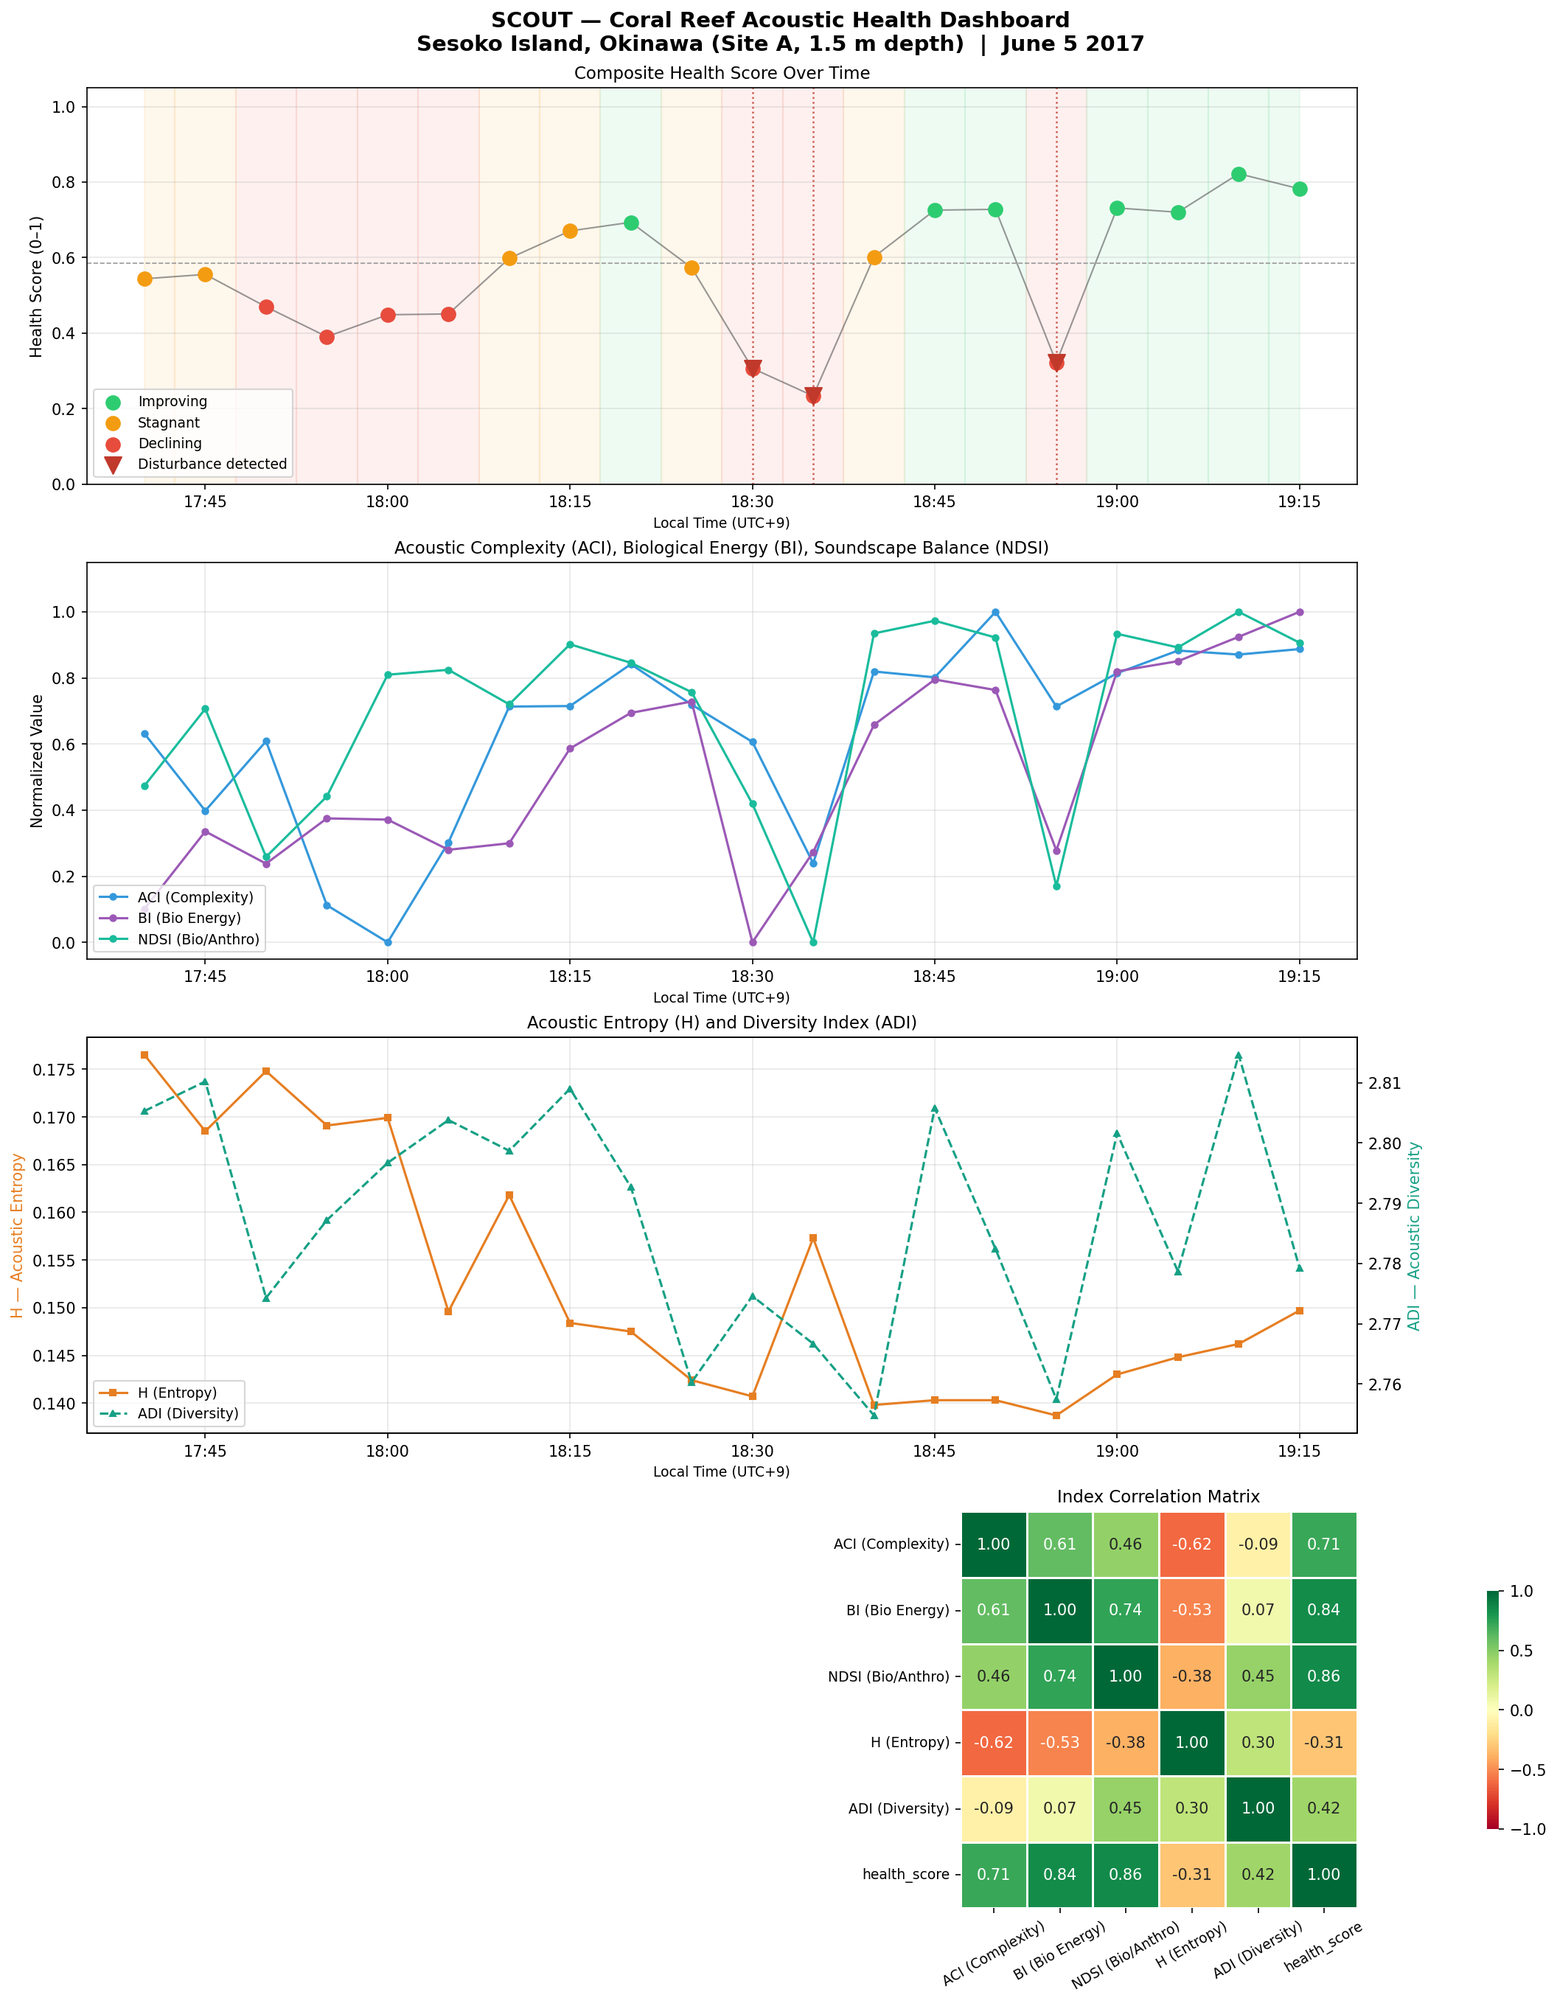
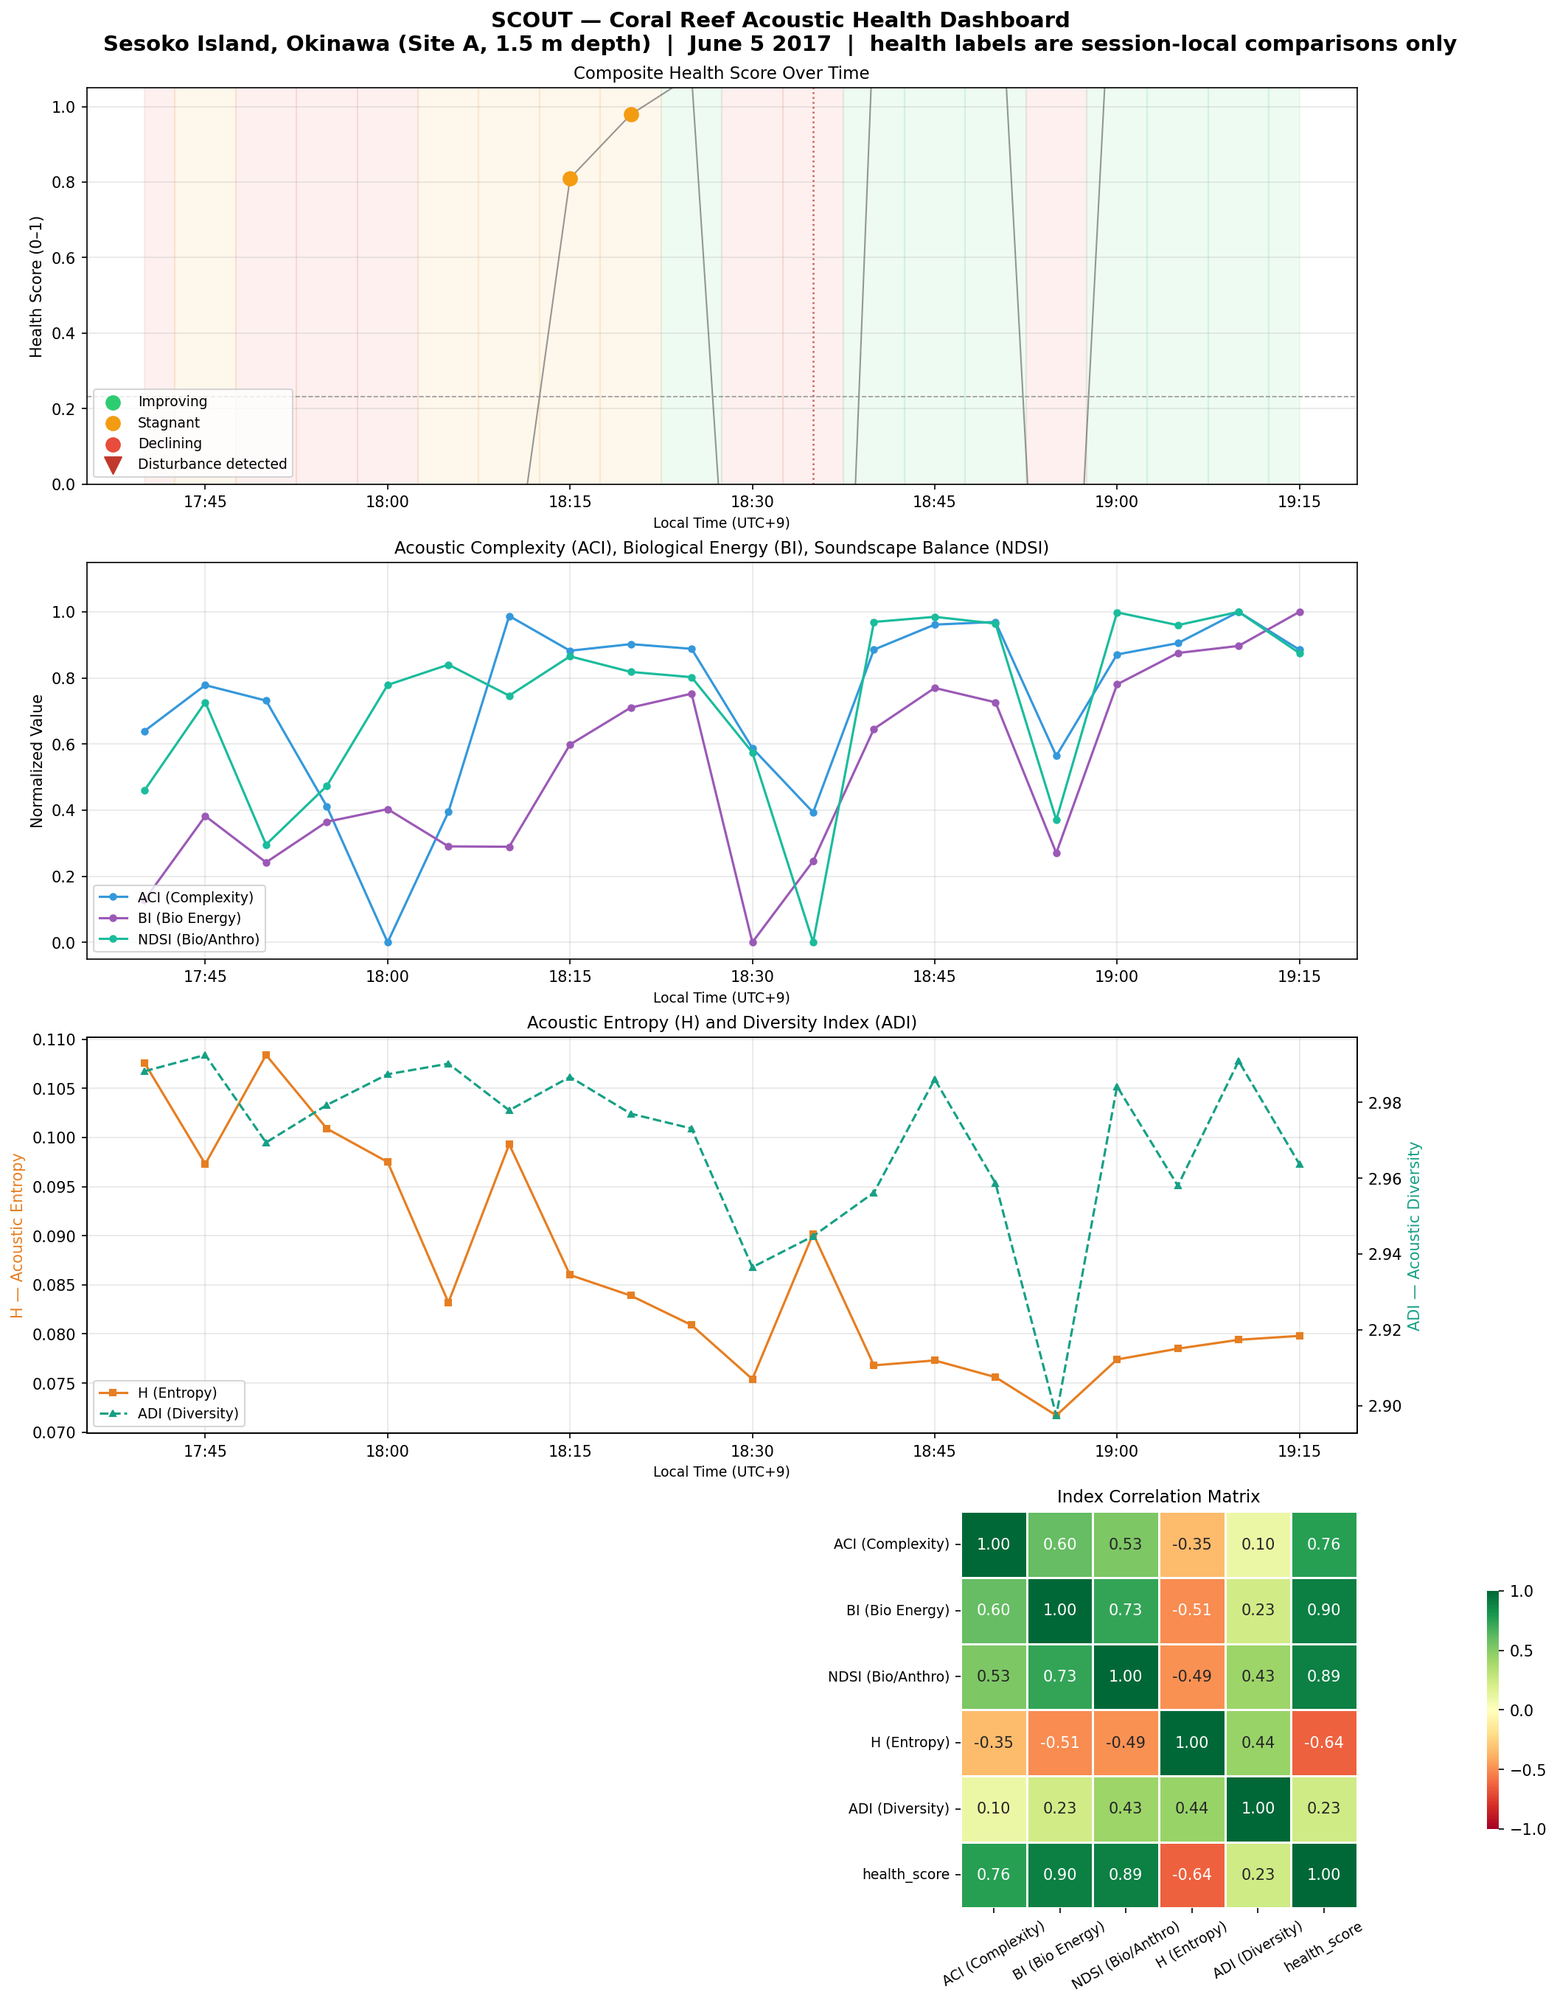
fix(analytics): really resample shore audio to 22.05 kHz and regenerate results (SCO-235)
maad.sound.load ignored the sr and mono arguments load_audio passed, so every
index ran at the file's 44.1 kHz while the code and docs said 22.05 kHz.
load_audio now resamples (polyphase), and every file in data/processed/ is
regenerated deliberately: absolute values move (BI about x4, bins are half
as wide) but the longitudinal verdict is unchanged (STAGNANT, tau -0.143,
p 0.71). The methodology doc records before/after; the acoustic-summary
validation is re-run against the fixed pipeline (rho 0.90 / 0.43). The scan
is now recursive and parse_timestamp reads the buoy's YYYYMMDD/HHMMSSZ.WAV,
so a recovered card's /AUDIO/ folder goes straight through the pipeline.

diff --git a/analytics/utils/acoustic_indices.py b/analytics/utils/acoustic_indices.py
@@ -16,9 +16,11 @@ import re
 import numpy as np
 import pandas as pd
 from datetime import datetime
+from math import gcd
 from typing import Optional
 from maad import sound, features
 from pathlib import Path
+from scipy.signal import resample_poly
 
 
 # ── Frequency band definitions (Hz) ──────────────────────────────────────────
@@ -70,12 +72,15 @@ MIXED_BAND  = (200, 1000)    # fish-vocal / small-vessel overlap — excluded fr
 
 def parse_timestamp(filename: str) -> Optional[datetime]:
     """
-    Extract datetime from Sesoko-style filenames:
-        SSK_Site_A_YYYYMMDD_HHMMSS.wav
+    Extract datetime from either recording layout:
+        SSK_Site_A_YYYYMMDD_HHMMSS.wav     Sesoko dataset
+        YYYYMMDD/HHMMSSZ.WAV               S.C.O.U.T. buoy SD card (/AUDIO/, UTC; SCO-231)
 
-    Returns a datetime object, or None if the pattern is not found.
+    Pass the buoy's day folder with the name ("20261025/080000Z.WAV"). Returns a datetime
+    object, or None if neither pattern is found.
     """
-    match = re.search(r"(\d{8})_(\d{6})", filename)
+    match = re.search(r"(\d{8})_(\d{6})", filename) or re.search(
+        r"(\d{8})[/\\](\d{6})Z\.wav$", filename, re.IGNORECASE)
     if not match:
         return None
     try:
@@ -85,9 +90,19 @@ def parse_timestamp(filename: str) -> Optional[datetime]:
 
 
 def load_audio(wav_path: str, target_sr: int = 22050):
-    """Load a WAV file. Returns (signal, sample_rate)."""
-    s, sr = sound.load(wav_path, sr=target_sr, mono=True)
-    return s, sr
+    """Load a WAV file's left channel, detrended, resampled to ``target_sr``.
+
+    Returns (signal, sample_rate). ``maad.sound.load`` has no resampling argument: until
+    2026-10-25 this passed it ``sr=`` and ``mono=``, which it silently ignored, so every index
+    was computed at the file's own rate (44.1 kHz for Sesoko) — SCO-235. The polyphase resample
+    makes the shore indices use the same 22.05 kHz the buoy records at (ADR-0011).
+    """
+    s, sr = sound.load(wav_path, channel="left", detrend=True)
+    sr = int(sr)
+    if sr != target_sr:
+        common = gcd(sr, target_sr)
+        s = resample_poly(s, target_sr // common, sr // common)
+    return s, target_sr
 
 
 def compute_spectrograms(s, sr: int):
@@ -153,7 +168,7 @@ def compute_all_indices(wav_path: str, target_sr: int = 22050) -> dict:
     # Returns: scalar
     adi = features.acoustic_diversity_index(Sxx_amp, fn)
 
-    ts = parse_timestamp(path.name)
+    ts = parse_timestamp(f"{path.parent.name}/{path.name}")
 
     return {
         "filename":   path.name,
@@ -173,14 +188,15 @@ def process_directory(audio_dir: str, output_csv: str = None) -> pd.DataFrame:
     Compute indices for all WAV files in a directory.
 
     Args:
-        audio_dir:  Path to folder containing .wav files.
+        audio_dir:  Folder of .wav files, searched recursively so a buoy card's /AUDIO/
+                    (one folder per UTC day) works as well as a flat Sesoko session.
         output_csv: If provided, saves results to this CSV path.
 
     Returns:
         DataFrame with one row per file.
     """
     audio_dir = Path(audio_dir)
-    wav_files = sorted(audio_dir.glob("*.wav")) + sorted(audio_dir.glob("*.WAV"))
+    wav_files = sorted({p for p in audio_dir.rglob("*") if p.suffix.lower() == ".wav"})
 
     if not wav_files:
         raise FileNotFoundError(f"No WAV files found in {audio_dir}")

diff --git a/analytics/utils/acoustic_summary.py b/analytics/utils/acoustic_summary.py
@@ -435,25 +435,16 @@ _REAL_EXCERPT = ("analytics/data/longitudinal/201708_20170801/SSK_Site_A_2017080
 def load_clip(path: str | Path, start_s: float = 0.0, seconds: float | None = None) -> list[float]:
     """A recording as the buoy would hear it: one channel at 22,050 Hz, floats in [−1, 1).
 
-    Reads the left channel like the shore pipeline (``maad.sound.load``) and resamples with a
-    polyphase filter. Note ``maad.sound.load`` ignores the ``sr`` the shore pipeline passes, so
-    shore indices are computed at the file's own rate (44.1 kHz for Sesoko); see
-    docs/analysis/acoustic-summary-validation.md. Needs numpy, scipy and scikit-maad.
+    Uses the shore pipeline's own loader (``acoustic_indices.load_audio``: left channel,
+    detrended, polyphase-resampled), so the buoy path and the shore indices start from the same
+    signal. Needs numpy, scipy and scikit-maad.
     """
-    from math import gcd
+    from utils.acoustic_indices import load_audio
 
-    from maad import sound
-    from scipy.signal import resample_poly
-
-    signal, rate = sound.load(str(path), channel="left", detrend=True)
+    signal, rate = load_audio(str(path), target_sr=SAMPLE_RATE_HZ)
     first = int(start_s * rate)
     last = len(signal) if seconds is None else first + int(seconds * rate)
-    signal = signal[first:last]
-    rate = int(rate)
-    if rate != SAMPLE_RATE_HZ:
-        common = gcd(rate, SAMPLE_RATE_HZ)
-        signal = resample_poly(signal, SAMPLE_RATE_HZ // common, rate // common)
-    return [float(v) for v in signal]
+    return [float(v) for v in signal[first:last]]
 
 
 def _real_excerpt(repo_root: Path) -> list[int]:

diff --git a/analytics/validate_acoustic_summary.py b/analytics/validate_acoustic_summary.py
@@ -6,7 +6,7 @@ Does the buoy's acoustic summary (ADR-0010) track the shore indices it approxima
 For each recording, the first ``--seconds`` (default 60, one buoy clip) is processed twice:
 
 * **Shore**: BI and NDSI exactly as ``utils/acoustic_indices.compute_all_indices`` computes them
-  (left channel at the file's own rate, the same spectrogram settings), on the same segment.
+  (left channel resampled to 22,050 Hz, the same spectrogram settings), on the same segment.
 * **Buoy**: resampled to 22,050 Hz, quantised to 12-bit ADC codes, and run through the reference
   summary in ``utils/acoustic_summary.py``, which the firmware matches bit for bit.
 
@@ -27,7 +27,7 @@ from pathlib import Path
 
 import numpy as np
 import pandas as pd
-from maad import features, sound
+from maad import features
 from scipy.stats import pearsonr, spearmanr
 
 sys.path.insert(0, str(Path(__file__).parent))
@@ -36,6 +36,7 @@ from utils.acoustic_indices import (  # noqa: E402
     ANTHRO_BAND,
     BIO_BAND,
     compute_spectrograms,
+    load_audio,
     parse_timestamp,
 )
 from utils.acoustic_summary import load_clip, quantize_to_adc, summarize  # noqa: E402
@@ -44,7 +45,7 @@ DEFAULT_DIRS = ("data/longitudinal",)
 
 
 def _shore_indices(path: Path, seconds: float) -> dict:
-    signal, rate = sound.load(str(path), channel="left", detrend=True)
+    signal, rate = load_audio(str(path))
     segment = signal[: int(seconds * rate)]
     sxx_amp, sxx_pwr, _, fn = compute_spectrograms(segment, rate)
     bi = features.bioacoustics_index(sxx_amp, fn, flim=BIO_BAND)

diff --git a/docs/analysis/acoustic-summary-validation.md b/docs/analysis/acoustic-summary-validation.md
@@ -2,8 +2,10 @@
 
 > **Summary** — Does the 14-byte acoustic summary the buoy sends ([ADR-0010](../decisions/0010-acoustic-summary-over-lora.md))
 > track the shore indices it stands in for? On 38 one-minute Sesoko clips, buoy NDSI follows
-> shore NDSI closely (Spearman ρ = 0.91) and the bio-band level follows shore BI loosely
-> (ρ = 0.46). Good enough for a live trend indicator between SD-card recoveries; not a
+> shore NDSI closely (Spearman ρ = 0.90) and the bio-band level follows shore BI loosely
+> (ρ = 0.43). Re-run 2026-10-25 after the shore pipeline was fixed to really analyse at
+> 22.05 kHz ([SCO-235](https://linear.app/scout1/issue/SCO-235)); the first run, against the
+> 44.1 kHz shore indices, gave ρ = 0.91 and 0.46. Good enough for a live trend indicator between SD-card recoveries; not a
 > replacement for the shore indices. Also records the estimated CPU cost on the Feather M0.
 
 ---
@@ -20,7 +22,7 @@ Each clip is processed twice:
 
 | Path | What it does |
 |---|---|
-| **Shore** | BI and NDSI exactly as `utils/acoustic_indices.compute_all_indices` computes them: left channel, detrended, at the file's own rate, same spectrogram settings, same 60 s |
+| **Shore** | BI and NDSI exactly as `utils/acoustic_indices.compute_all_indices` computes them: left channel, detrended, resampled to 22,050 Hz, same spectrogram settings, same 60 s |
 | **Buoy** | Resampled to 22,050 Hz, quantised to 12-bit ADC codes (full scale = the file's full scale), then the reference summary [`utils/acoustic_summary.py`](../../analytics/utils/acoustic_summary.py), which the firmware matches bit for bit |
 
 Reproduce (about 2 minutes on 6 cores):
@@ -38,16 +40,16 @@ Per-clip results: [`acoustic-summary-validation-results.csv`](acoustic-summary-v
 
 | Pair | n | Pearson r | Spearman ρ | Reading |
 |---|---|---|---|---|
-| Buoy NDSI vs shore NDSI | 38 | 0.999 | 0.913 | Tracks closely. Pearson is inflated by one boat-noise clip (2018-01-01 00:05, shore NDSI 0.07); without it r = 0.994, ρ = 0.906 |
-| `lvl_bio` vs shore BI | 38 | 0.676 | 0.458 | Same direction, loose. Sessions separate cleanly, clips within a session do not |
-| `snap_count` vs shore BI | 38 | −0.524 | −0.463 | Inverse: see below |
+| Buoy NDSI vs shore NDSI | 38 | 0.999 | 0.898 | Tracks closely. Pearson is inflated by one boat-noise clip (2018-01-01 00:05, shore NDSI 0.09); without it r = 0.993, ρ = 0.890 |
+| `lvl_bio` vs shore BI | 38 | 0.636 | 0.432 | Same direction, loose. Sessions separate cleanly, clips within a session do not |
+| `snap_count` vs shore BI | 38 | −0.476 | −0.419 | Inverse: see below |
 
-All three are significant at p < 0.005.
+All three are significant at p < 0.01.
 
 **NDSI.** The buoy value runs slightly higher than the shore value on a shrimp-dominated reef
 (mean 0.96 vs 0.95) because it uses filtered time-domain energy rather than spectrogram power,
 but it moves with the shore value, including the one clip where a boat drove the shore NDSI to
-0.07 (buoy 0.17). This is what ADR-0010 expected: a trend, not the shore number.
+0.09 (buoy 0.17). This is what ADR-0010 expected: a trend, not the shore number.
 
 **Bio-band level vs BI.** BI is the area under the spectrum above its minimum in 1–8 kHz, so it
 measures how much the bio band stands out from the quietest bin, not only how loud it is. The
@@ -72,10 +74,8 @@ buoy's gain is set by the amplifier choice ([SCO-216](https://linear.app/scout1/
   are known.
 - **One site, midnight only, 38 clips.** No dusk or daytime clips and no second site, so the
   correlations describe this reef at night.
-- **The shore indices are computed at 44.1 kHz, not 22.05 kHz.** `acoustic_indices.load_audio`
-  passes `sr=22050` to `maad.sound.load`, which ignores it. The buoy path is resampled to
-  22.05 kHz. Not changed here: it would move every committed shore result
-  ([SCO-235](https://linear.app/scout1/issue/SCO-235)).
+- **Shore BI is on the 22.05 kHz scale** (79–215 on these clips) since SCO-235; values from before
+  2026-10-25 were on the 44.1 kHz scale (about a quarter of these) and are not comparable.
 - **The 12-bit quantisation maps the file's full scale to the ADC's full scale.** The real
   buoy's mapping depends on the preamp gain.
 

diff --git a/docs/analysis/coral-bioacoustic-methodology.md b/docs/analysis/coral-bioacoustic-methodology.md
@@ -27,7 +27,33 @@ S.C.O.U.T. monitors coral reef health using passive acoustic recordings and five
 
 ## Bioacoustic Indices
 
-All five indices are computed from WAV files resampled to 22,050 Hz using the [scikit-maad](https://scikit-maad.github.io/) Python library. ACI, BI, and ADI use the amplitude spectrogram; NDSI uses the power spectral density; H uses both the raw signal (temporal entropy) and the amplitude spectrogram (spectral entropy).
+All five indices are computed from the left channel of each WAV file, detrended and resampled to 22,050 Hz (polyphase, `scipy.signal.resample_poly`), using the [scikit-maad](https://scikit-maad.github.io/) Python library. 22,050 Hz is also the buoy's own sample rate ([ADR-0011](../decisions/0011-audio-capture-parameters.md)), so shore and buoy analyse the same bandwidth. ACI, BI, and ADI use the amplitude spectrogram; NDSI uses the power spectral density; H uses both the raw signal (temporal entropy) and the amplitude spectrogram (spectral entropy).
+
+### Sample rate (SCO-235)
+
+Until 2026-10-25 the resampling above did not happen. `load_audio` passed `sr=22050` and
+`mono=True` to `maad.sound.load`, which has no such arguments and ignored them, so every index
+was computed at the file's own 44.1 kHz ([SCO-235](https://linear.app/scout1/issue/SCO-235)).
+The fix resamples for real, and every committed result in `analytics/data/processed/` was
+regenerated. What changed:
+
+| | Before (44.1 kHz) | After (22.05 kHz) |
+|---|---|---|
+| Mean ACI, 20 dusk files (`results.csv`) | 501.4 | 407.3 |
+| Mean BI | 58.3 | 229.7 |
+| Mean NDSI | 0.807 | 0.903 |
+| Mean H | 0.152 | 0.086 |
+| Mean ADI | 2.79 | 2.97 |
+| Per-file health labels unchanged | — | 15 of 20 |
+| Files flagged as disturbances | 3 | 1 |
+| Longitudinal verdict (8 sessions) | STAGNANT, PC1 τ = −0.143, p = 0.71 | STAGNANT, PC1 τ = −0.143, p = 0.71 |
+
+Absolute values moved because the spectrogram uses 1,024-point windows: at 22.05 kHz a window
+spans twice the time, each bin is 21.5 Hz wide instead of 43 Hz, and the spectrum ends at 11 kHz
+instead of 22 kHz. Per-bin sums such as BI change scale (here about ×4), and ADI and H see a
+different set of bins. The PCA and the trend test work on relative changes across files, so the
+longitudinal conclusion holds. Compare
+values from before 2026-10-25 only with each other.
 
 ### Frequency Band Model
 
@@ -405,8 +431,8 @@ All baseline analyses use passive acoustic recordings from **Sesoko Island, Okin
 | Recording window | 00:00 – 00:20 local time (midnight) |
 | Files per session | 5 × 5-minute recordings |
 | Sessions | 8 (Aug 2017 – Jul 2018) |
-| Sample rate | 22,050 Hz (resampled from native) |
-| Filename format | `SSK_Site_A_YYYYMMDD_HHMMSS.wav` |
+| Sample rate | 22,050 Hz (resampled from the native 44.1 kHz since 2026-10-25; see [Sample rate](#sample-rate-sco-235)) |
+| Filename format | `SSK_Site_A_YYYYMMDD_HHMMSS.wav` (the buoy's own `YYYYMMDD/HHMMSSZ.WAV` is read too) |
 
 **Why midnight recordings?** The Aug 2017 – Jul 2018 continuous-recording months provide both midnight and dusk data, but the earlier sessions (Jun–Jul 2017) recorded only at dusk. Using midnight gives a consistent time-of-day baseline across all 8 sessions, avoiding confounds from diel variation in reef acoustic activity.
 
